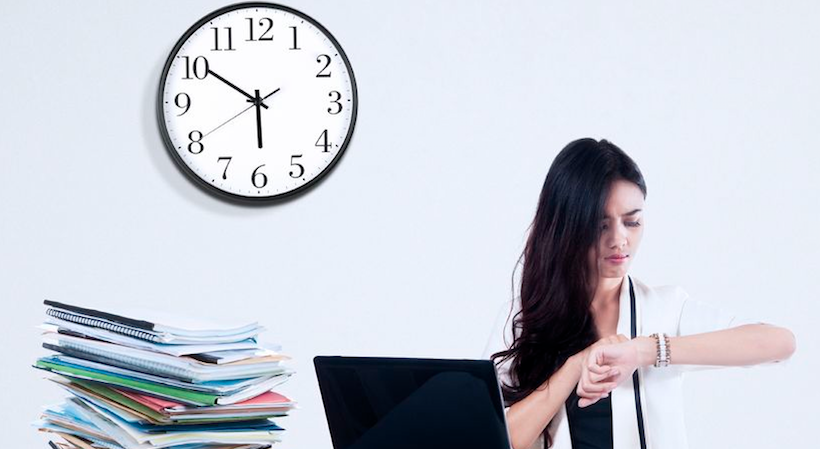
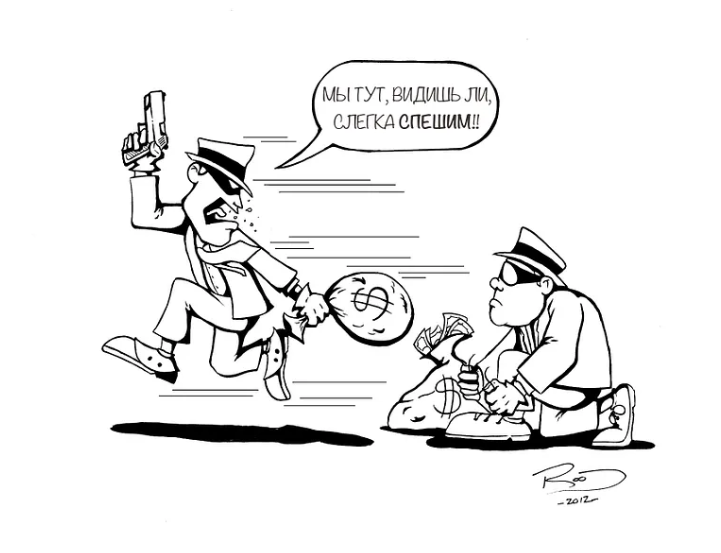
2

diff --git a/index.html b/index.html
@@ -23,16 +23,10 @@
                 Нужно всего лишь научиться применять эти советы на практике, одновременно. Тогда и удастся почувствовать, как это — все успевать. В том числе и успевать отдыхать.
             </p>
         </div>
-
-        <div class="text_section">
-            <h2 class="paragraph_title">Всегда придерживайтесь правила 2-х минут</h2>
-            <p class="text">
-                Данное правило впервые было сформулировано Дэвидом Алленом, придумавшим систему Getting Things Done, и это самое полезное, что вы можете почерпнуть из его одноименной книги.
-            </p>
-            <p class="text">
-                Тут все просто: если задачу, стоящую перед вами, можно сделать за две минуты или быстрее— сразу же ее сделайте. Не записывайте, не планируйте, не откладывайте на вечер — просто возьмите и разберитесь с ней прямо сейчас. Сэкономите много времени и сил.
-            </p>
-        </div>
+		
+		<div class="text_section">
+		<img src="images/1.jpg" alt="Работа и время" class="article_photo">
+		</div>
 
         <div class="text_section">
             <h2 class="paragraph_title">Не читайте новости</h2>
